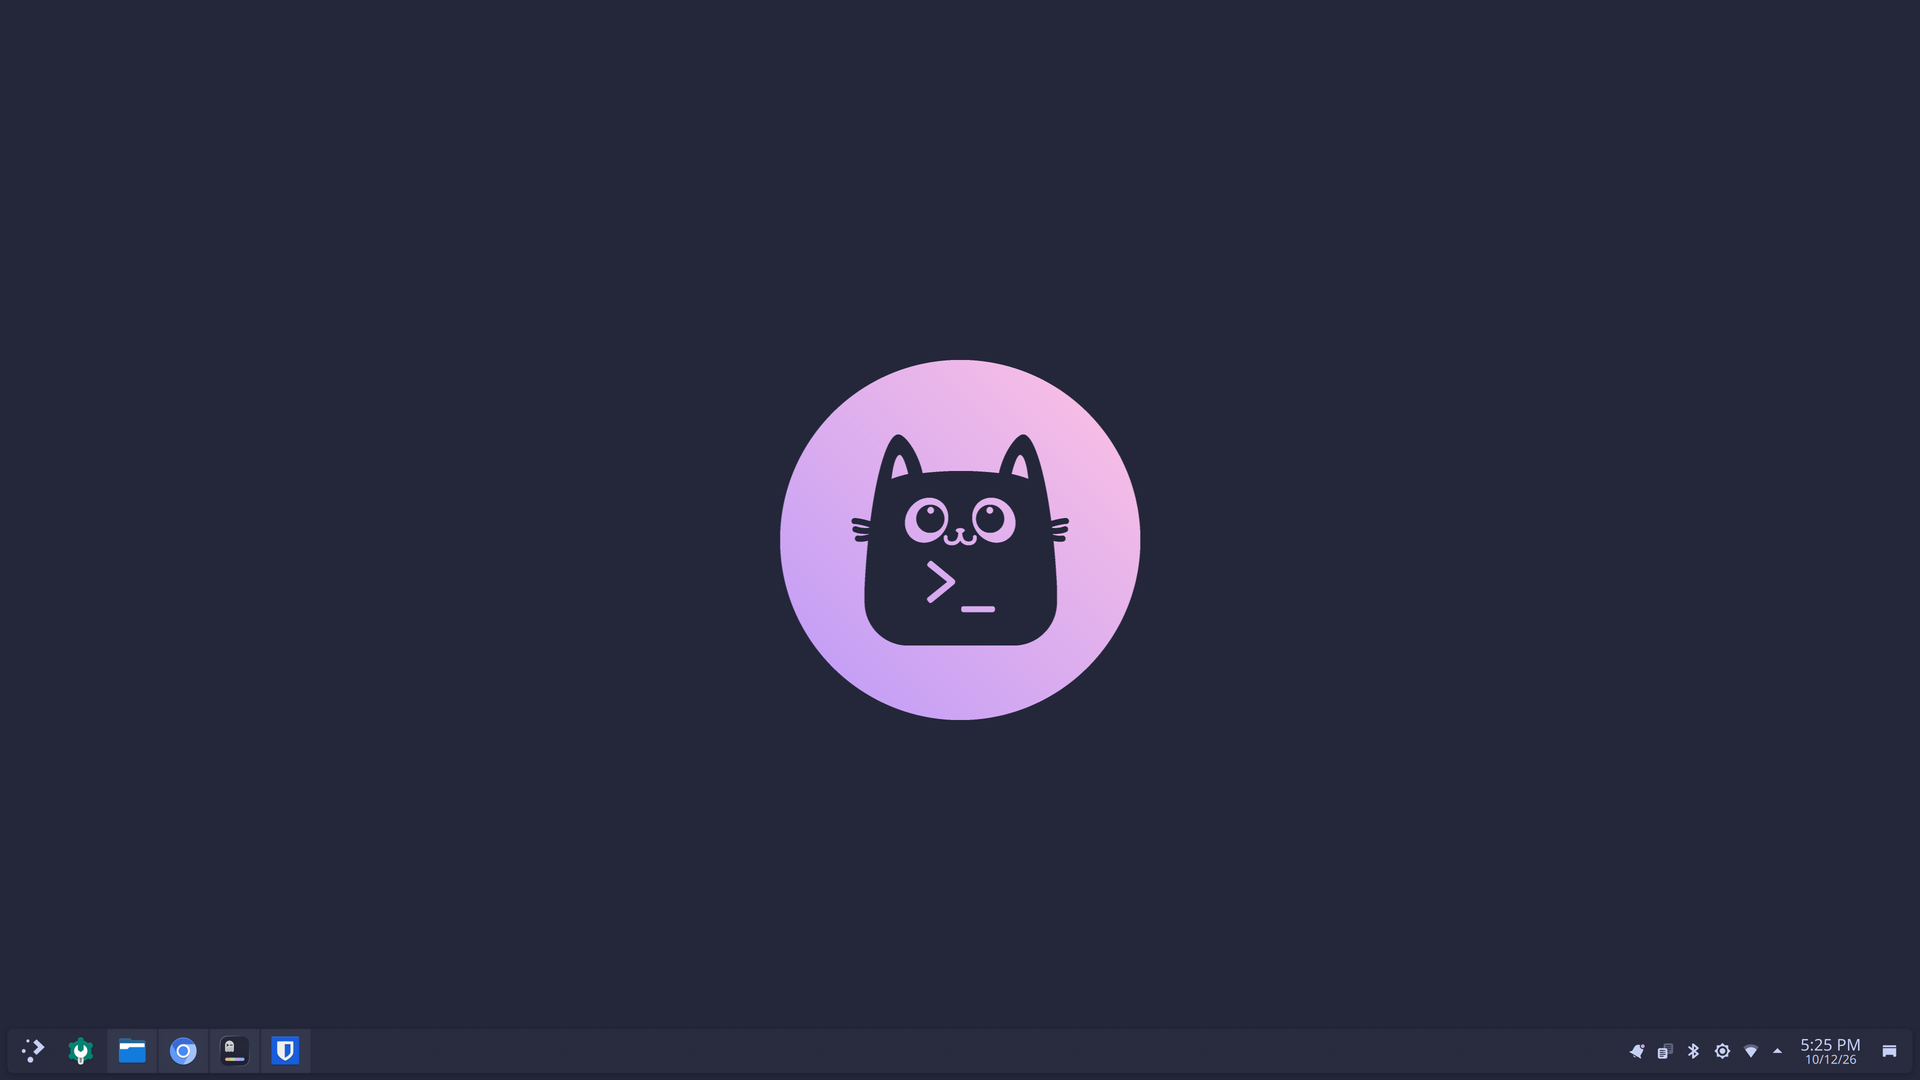
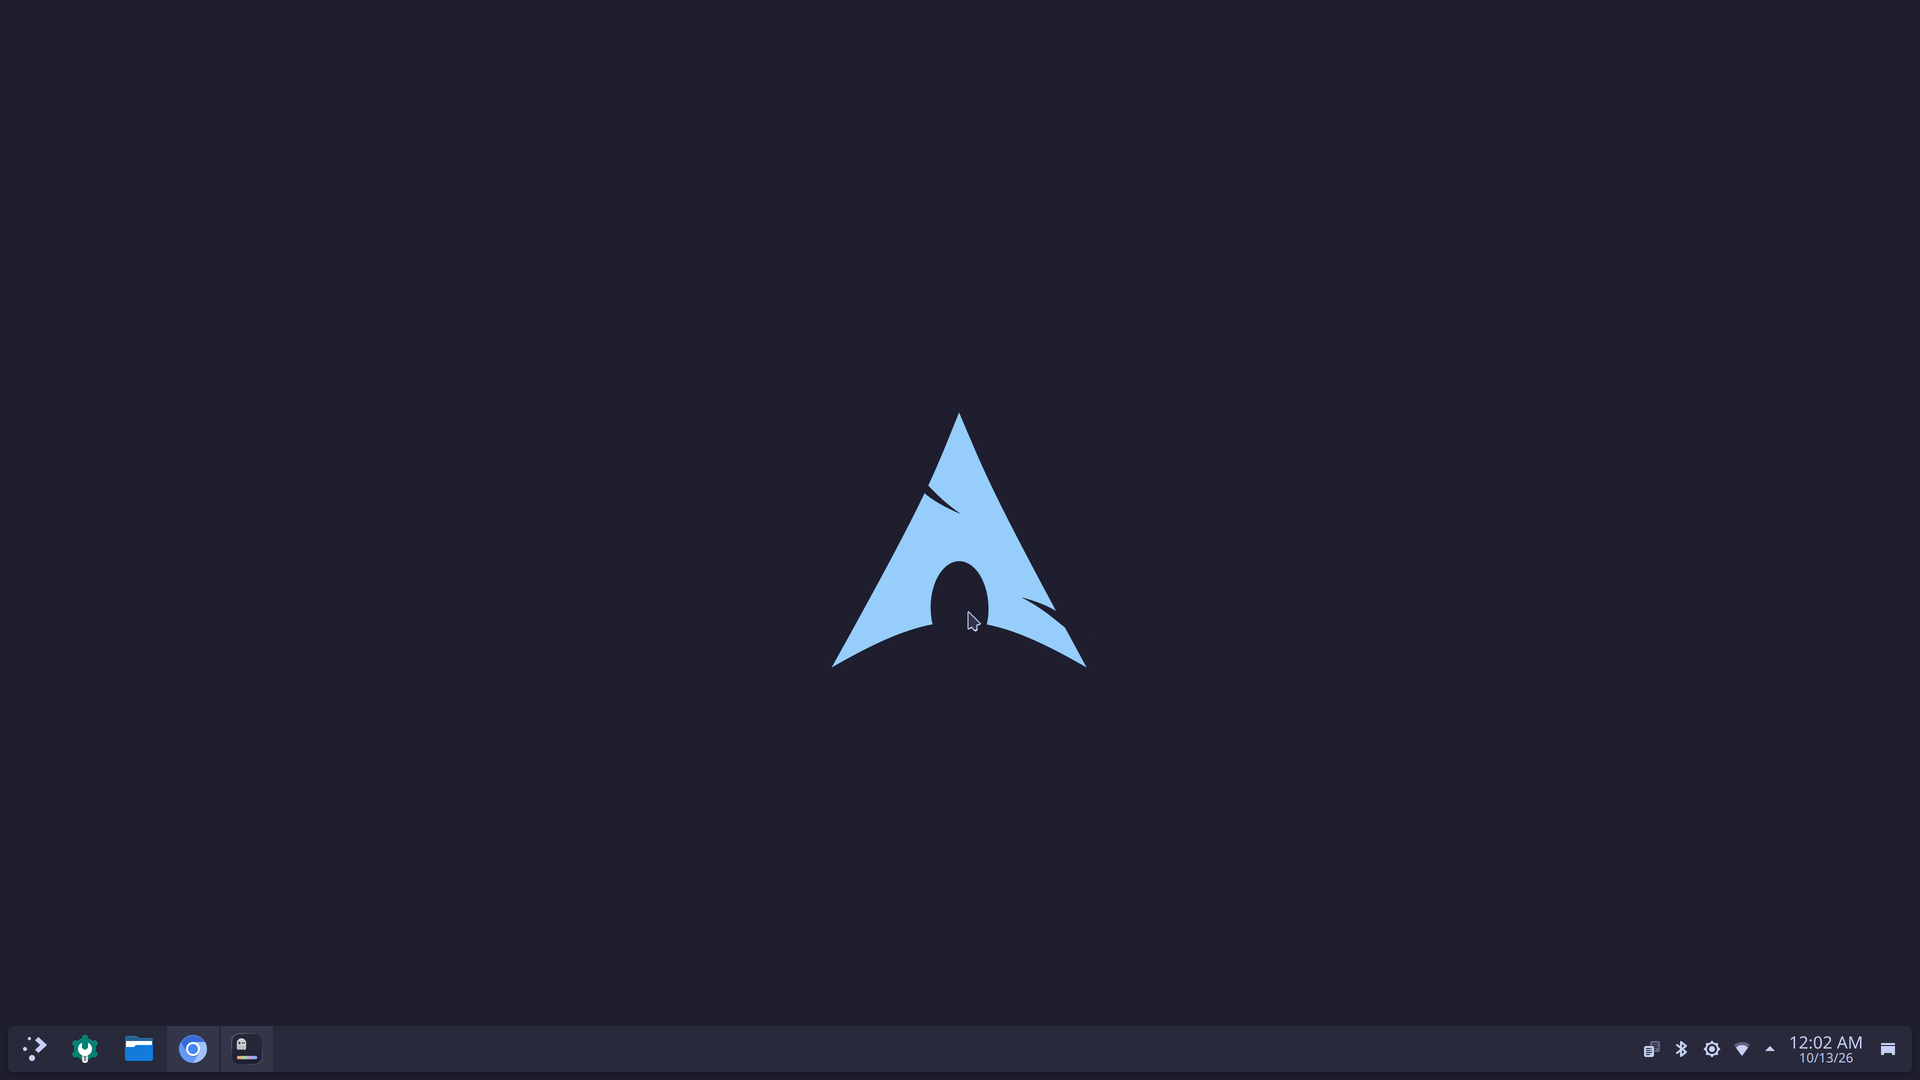
README: retake the Plasma screenshot with the Arch wallpaper

Changed region(s): [[0.4062, 0.3361, 0.5938, 0.6722], [0.0312, 0.9472, 0.1562, 1.0], [0.8438, 0.9472, 0.9688, 1.0]]

diff --git a/README.md b/README.md
@@ -70,7 +70,7 @@ This repo is everything that only makes sense on a desktop.
 
 | Login (SDDM) | KDE Plasma |
 |---|---|
-| ![SDDM login screen: a hanging lamp lights a cat](screenshots/sddm.png) | ![Plasma desktop with the Flatppuccin cat wallpaper and a slim bottom panel](screenshots/plasma.png) |
+| ![SDDM login screen: a hanging lamp lights a cat](screenshots/sddm.png) | ![Plasma desktop with the light-blue Arch logo wallpaper on near-black and a slim bottom panel](screenshots/plasma.png) |
 
 The hero and the first four shots are Hyprland, taken by [`screenshots/take.sh`](screenshots/take.sh),
 which also checks the session and plays a lofi stream so the bar and visualizer have something to show.
